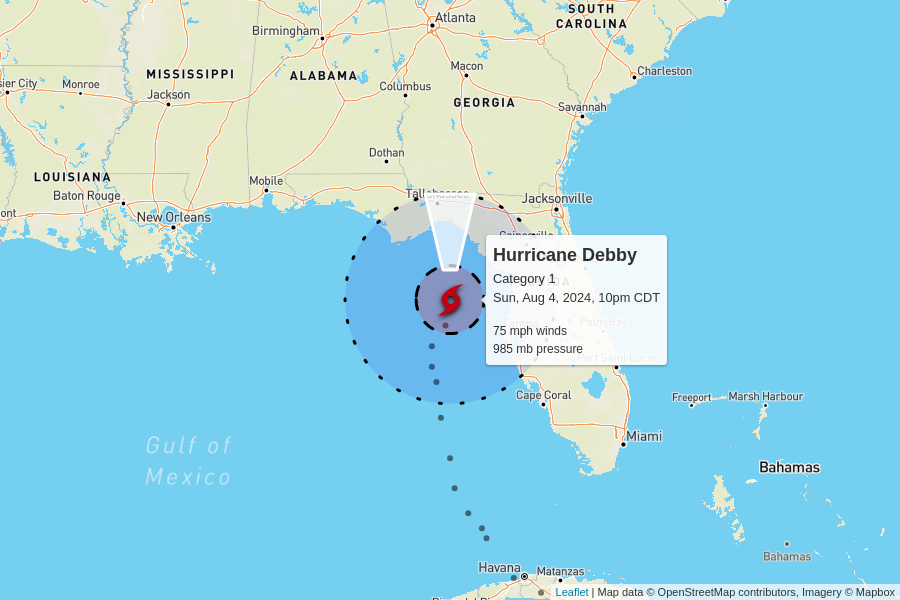
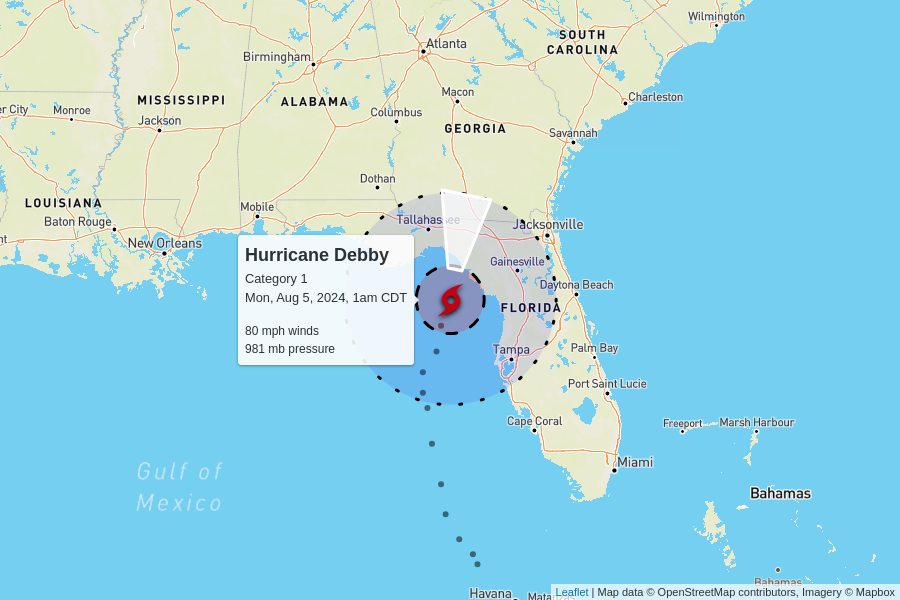
automatic update

diff --git a/docs/index.html b/docs/index.html
@@ -102,7 +102,7 @@
         <td colspan="6" class="storm category-1" >
           <h2>
             Hurricane Debby - Category 1
-            <p class="updated">last updated <span data-time>2024-08-05T03:00:00.000Z</span></p>
+            <p class="updated">last updated <span data-time>2024-08-05T06:00:00.000Z</span></p>
           </h2>
         </td>
       </tr>
@@ -117,12 +117,12 @@
       </tr>
       <tr>
         <td class="spacer"></td>
-        <td>75 mph<br>+5 mph since last update</td>
-        <td>985 mb<br>-7 mb since last update</td>
+        <td>80 mph<br>+5 mph since last update</td>
+        <td>981 mb<br>-4 mb since last update</td>
         <td>
           12 mph to the north
           <br/>
-          <span style="display: inline-block; font-size: 1.5em; transform: rotate(360deg);">↑</span>
+          <span style="display: inline-block; font-size: 1.5em; transform: rotate(10deg);">↑</span>
         </td>
         <td><a href="https://raw.githubusercontent.com/mgwalker/atlantic-hurricanes/main/data/csv/AL042024.csv">AL042024.csv</a></td>
         <td><a href="https://www.nhc.noaa.gov/archive/2024/DEBBY.shtml?">NHC advisories</a></td>
